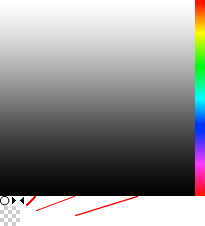
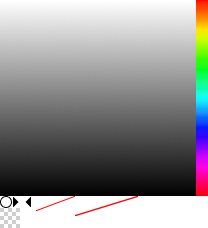
resize

Changed region(s): [[0.0, 0.0, 1.0, 1.0]]

diff --git a/apps/common/main/resources/less/hsb-colorpicker.less b/apps/common/main/resources/less/hsb-colorpicker.less
@@ -49,7 +49,7 @@
     }
 
     .cnt-sat {
-        width: 10px;
+        width: 15px;
         height: 100%;
         position: relative;
         border: @scaled-one-px-value-ie solid @border-regular-control-ie;
@@ -58,21 +58,22 @@
     }
 
     .cnt-hb-arrow {
-        width: 9px;
-        height: 9px;
-        margin: -4px;
+        width: 12px;
+        height: 12px;
+        margin: -6px;
+        margin-left: calc(-6*@scaled-one-px-value);
         position: absolute;
         background-position: 0 -196px;
     }
 
     .cnt-sat-arrow {
-        width: 14px;
-        height: 9px;
-        margin-top: -4px;
+        width: 23px;
+        height: 12px;
+        margin-top: -6px;
         margin-left: -3px;
         margin-left: calc(-2px - @scaled-one-px-value);
         position: absolute;
-        background-position: -11px -196px;
+        background-position: -12px -196px;
     }
 
     .empty-color {
